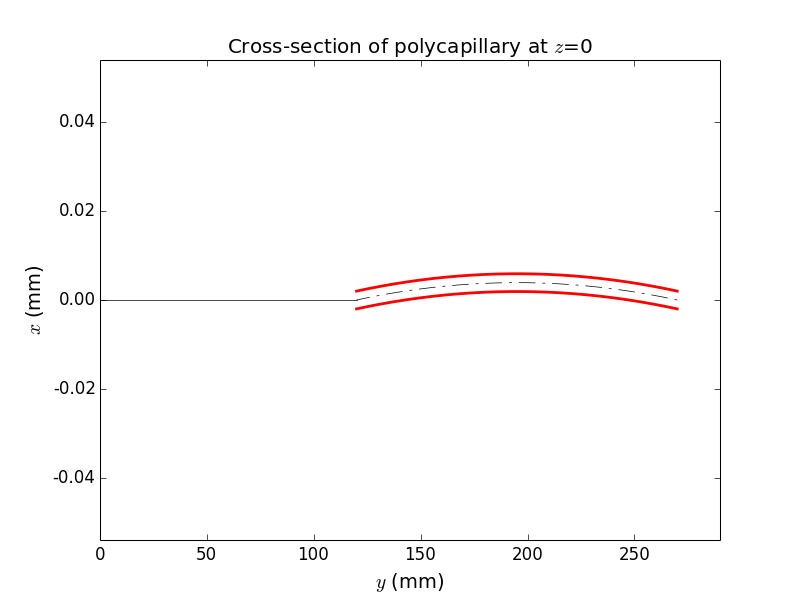
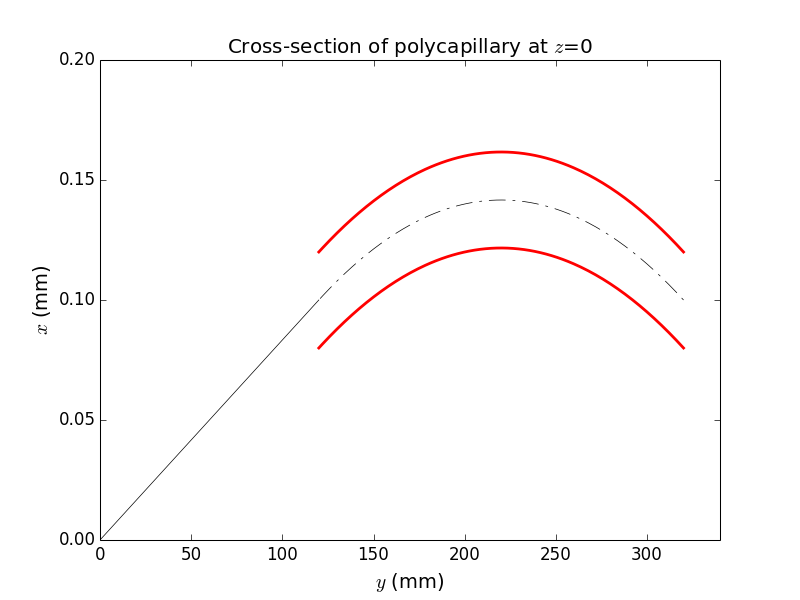
Properly bent capillary
- cosh bent,
- image at the exit of capillary,
- should focus at f+rs

diff --git a/simplfiedMonoCapillary.py b/simplfiedMonoCapillary.py
@@ -31,24 +31,28 @@ mGlass = rm.Material(('Si', 'O'), quantities=(1, 2), rho=2.2)
 
 repeats = 6*1500 # number of ray traycing iterations
 E0 = 9000.
-rSample = 120 # starting position of the lens
-f = rSample + 150 # y length in mm from foucs to the end of the lens
+rSample = 120.0 # starting position of the lens
+f = rSample + 200 # y length in mm from foucs to the end of the lens
 screen1_pos = rSample + 100 
 screen2_pos = f + 5 # distance @vincze == 10cm
 max_plots = 0
-r0 = 0.002
-rOut = 0.002
+r0 = 0.02
+rOut = 0.02
 wall = 0.0005
 plot2D_yLim = [-0.05, 0.05]
 plot_main_lim = 0.45 # min 2*r0 for capillary entrance imaging
 layers = 10 # number of hexagonal layers
-nRefl = 11 # number of reflections
+nRefl = 50 # number of reflections
 nReflDisp = 12 # unused
 xzPrimeMax = 3.
 # Pickle saving: None for no saving
 persistentName=None #'phase_space__energy.pickle'
 # some fun parameter
-k_ = 128.0
+y_in    = 0.1
+rS      = float(rSample)
+# go to mathematica and solve for a in sinh(-1/a) == y_in/rS
+a_      = -100.0/np.arcsinh(-y_in/rS)
+print a_, y_in/rS
 
 class StraightCapillary(roe.OE):
     def __init__(self, *args, **kwargs):
@@ -70,11 +74,11 @@ class StraightCapillary(roe.OE):
 
     def local_x0(self, s):  # axis of capillary, x(s)
         # s*0 is needed for this method to act as a function rather than variable?
-        return -k_*np.cosh((s-75.)/75./k_) +  k_*np.cosh(1/k_)
+        return -a_*np.cosh((s-100.0)/a_) +  a_*np.cosh(100.0/a_) + y_in
         
 
     def local_x0Prime(self, s):
-        return -1.0/75.0 * np.sinh((s-75.0)/75.0/k_)
+        return -np.sinh((s-100.0)/a_)
 
     def local_r0(self, s):  # radius of capillary (s)
 #        return self.ar * (s-self.s0)**2 + self.br
@@ -181,9 +185,10 @@ def main():
     beamLine = build_beamline()
     plots = []
 
-    xLimits = [-r0*1.4, 1.4*r0]
-    xpLimits = [-0.2, 0.2]
-    zLimits = [-r0*1.4, 1.4*r0]
+    xLimits = [y_in-0.03,y_in+0.03]
+    xpLimits = [-0.5, 0.5]
+    zLimits = [-0.031,0.031]
+#    zLimits = [-r0*1.6, 1.6*r0]
 #    yLimits=None
     cLimits = [-3,3] #[8900,9100]
     # at the entrance
@@ -210,7 +215,7 @@ def main():
         xaxis=xrtp.XYCAxis(r"$x$", 'mm', data=raycing.get_x, bins=256, ppb=2, limits=xLimits),
         yaxis=xrtp.XYCAxis(r"$z$", 'mm', data=raycing.get_z, bins=256, ppb=2, limits=zLimits),
 #        caxis='category', 
-        caxis=xrtp.XYCAxis("Reflections", 'nr of',data=raycing.get_reflection_number, bins=256, ppb=2, limits=[0,10]),
+        caxis=xrtp.XYCAxis("Reflections", 'nr of',data=raycing.get_reflection_number, bins=256, ppb=2, limits=[0,20]),
         beamState='beamFSM2', title='Real Space', aspect='auto',
         persistentName=persistentName)
     # setting persistentName saves data into a python pickle, and might be

diff --git a/PlotMono.py b/PlotMono.py
@@ -28,7 +28,8 @@ def plot2D(beamLine,f):
     ax1.plot(f-s, x-r, 'r-', lw=2)
     ax1.plot(f-s, x+r, 'r-', lw=2)
     ax1.set_xlim(0, f+20)
-    ax1.set_ylim(-2*capillary.r0in - 0.05, capillary.local_x0(0) + 2*capillary.r0out + 0.05)
+    ax1.set_ylim(0.0,0.2)
+#    ax1.set_ylim(-2*capillary.r0in - 0.05, capillary.local_x0(0) + 2*capillary.r0out + 0.05)
     ax1.set_aspect('auto')
     ax1.relim()
     ax1.autoscale_view()
